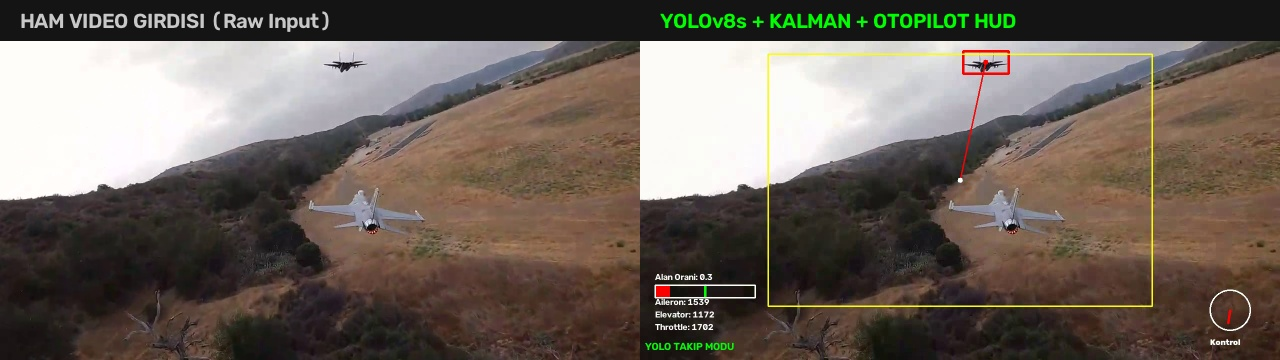
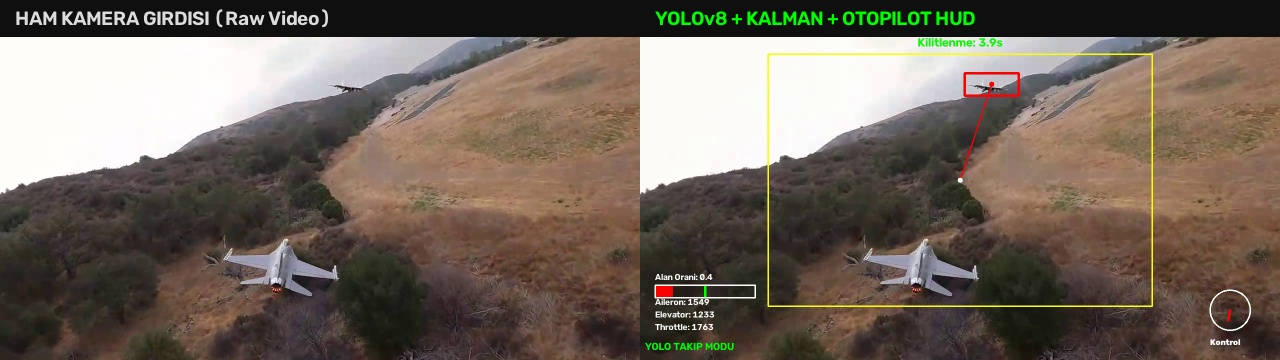
Fix: Correct frame extraction, target closeup and lock-on lifecycle visuals in README

diff --git a/README.md b/README.md
@@ -172,12 +172,19 @@ Teknofest kurallarına uygun olarak vuruş sayılabilmesi için aşağıdaki şa
    $$x_{max} \le (W - \text{padding}_x), \quad y_{max} \le (H - \text{padding}_y)$$
 2. **Ölçek Şartı:** Hedef İHA çok uzakta (nokta boyutunda) olmamalıdır:
    $$w \ge 0.025 \times W \quad (\ge 32\text{ px}), \quad h \ge 0.025 \times H \quad (\ge 18\text{ px})$$
-3. **Süreklilik:** Bu şartlar altında sayaç çalışır. Kesintisiz **4.0 saniye** tamamlandığında `BASARILI VURUS` gerçekleşir.
+3. **Süreklilik:** Bu şartlar altında sayaç kesintisiz **4.0 saniye** sayar. 4 saniye tamamlandığı anda `BASARILI VURUS` tescil edilir ve hedef sayacı 1 artırılır.
 
-| Kilitlenme Süreci (1.2s) | Başarılı Kilitlenme ve Vuruş |
+#### 🎯 Kilitlenme ve Vuruş Süreç Aşamaları:
+
+| 1. Aşama: Kilitlenme İlerlemesi (1.9s) | 2. Aşama: Tam Kilitlenme (4.0s) |
 | :---: | :---: |
-| ![Kilitlenme İlerlemesi](assets/lockon_progress.jpg) | ![Başarılı Vuruş](assets/hit_success.jpg) |
-| *Yeşil sayaç ile 4 saniyelik kilitlenme takibi* | *Vuruş tescil edilir, sayaç 1 artırılır* |
+| ![Kilitlenme İlerlemesi](assets/lockon_progress.jpg) | ![Tam Kilitlenme](assets/lockon_complete.jpg) |
+| *Hedef koridorda: Yeşil kilitlenme sayacı (1.9s)* | *4.0 saniye kilitlenme şartı başarıyla tamamlandı* |
+
+| 3. Aşama: 1. Başarılı Vuruş (Vurus: 1) | 4. Aşama: 2. Başarılı Vuruş (Vurus: 2) |
+| :---: | :---: |
+| ![1. Vuruş Başarısı](assets/hit_success.jpg) | ![2. Vuruş Başarısı](assets/multi_lockon.jpg) |
+| *Sol Üst: İlk vuruş tescil edildi (`Vurus: 1`)* | *Görev devamında 2. İHA da vuruldu (`Vurus: 2`)* |
 
 ---
 
@@ -231,16 +238,18 @@ Ekran üzerindeki tüm grafik elemanlar askeri avcı uçağı kask/kokpit HUD fo
 
 ```bash
 UAV/
-├── 📂 assets/                     # README için ekran görüntüleri ve grafikler
-│   ├── comparison.jpg            # Giriş vs İşlenmiş HUD karşılaştırma görseli
-│   ├── hero_banner.jpg           # Ana tanıtım afişi
-│   ├── scan_mode.jpg             # ROI tarama modu görüntüsü
-│   ├── tracking_mode.jpg         # Takip modu görüntüsü
-│   ├── lockon_progress.jpg       # Kilitlenme süreci görüntüsü
-│   ├── hit_success.jpg           # Başarılı vuruş görüntüsü
-│   ├── hud_controls.jpg          # Gaz ve PWM paneli
-│   ├── hud_attitude.jpg          # Yönelim ve irtifa göstergesi
-│   └── target_closeup.jpg        # Hedef İHA yakın plan görüntüsü
+├── 📂 assets/                     # README için doğrulanmış ekran görüntüleri
+│   ├── hero_banner.jpg           # 3.9s kilitlenme ana tanıtım afişi
+│   ├── comparison.jpg            # Ham video vs İşlenmiş HUD karşılaştırma görseli
+│   ├── scan_mode.jpg             # ROI 1/4 tarama modu görüntüsü
+│   ├── tracking_mode.jpg         # Hedef ilk yakalanma anı
+│   ├── target_closeup.jpg        # Hedef İHA yakın plan sınır kutusu detayı
+│   ├── lockon_progress.jpg       # Kilitlenme süreci (1.9s)
+│   ├── lockon_complete.jpg       # Kilitlenme tamamlanma anı (4.0s)
+│   ├── hit_success.jpg           # 1. Başarılı vuruş tescili (Vurus: 1)
+│   ├── multi_lockon.jpg          # 2. Başarılı vuruş tescili (Vurus: 2)
+│   ├── hud_controls.jpg          # Gaz ve PWM telemetri paneli
+│   └── hud_attitude.jpg          # Yönelim ve irtifa göstergesi
 │
 ├── 📂 models/                     # Eğitilmiş derin öğrenme ağırlıkları
 │   ├── best.pt                   # Optimize edilmiş YOLOv8s İHA tespit modeli (~52 MB)
